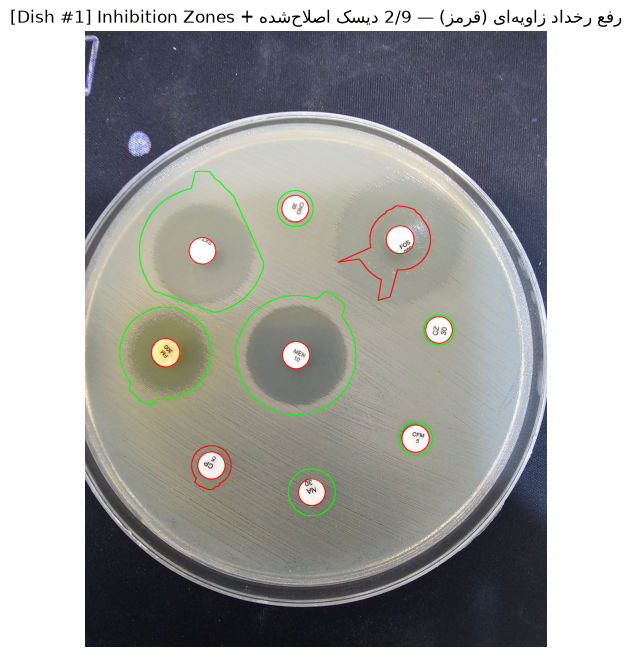
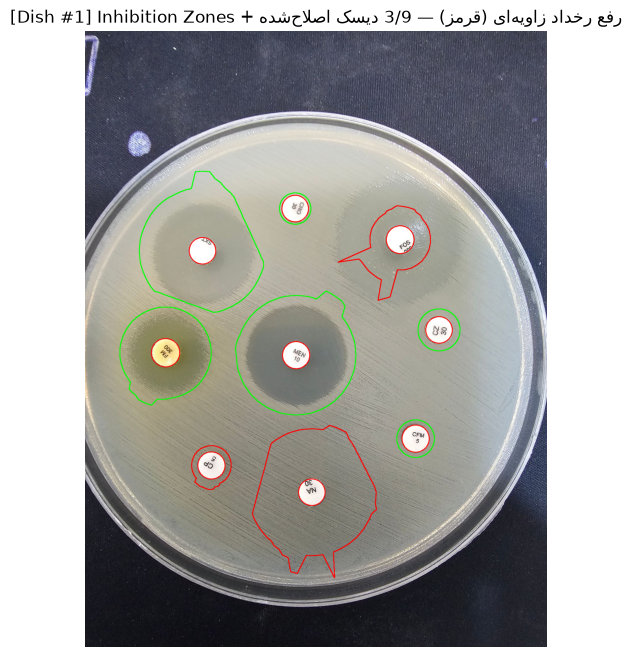
Document combined-fix results: halo MAE 11.12->5.77mm, bias ~eliminated
Full 11-image re-evaluation after both the disk-based px/mm calibration
and the search-window-widening fix: MAE 11.12->5.77mm (-48%), bias
-10.90->-0.60mm (-94%, essentially unbiased now). Disk diameter
accuracy is now near-perfect (MAE 0.17mm) as expected from the
calibration.

Documented honestly alongside the win: the widening fix introduced a
new side effect on 19 of 28 genuinely zone-free disks, which now
report a meaningfully inflated false halo (up to 36.7mm on a 6mm
disk) instead of correctly reporting no growth -- an unrelated trend
(lighting, neighbor bleed) can cross the significance threshold once
the search window is allowed to widen far enough. This doesn't show
up in the halo MAE (computed only over disks with a real GT zone) but
is real remaining work.

Claude-Session: https://claude.ai/code/session_01XqC1qUtyURmn3H3wPm2cMP

diff --git a/PROJECT_HISTORY.md b/PROJECT_HISTORY.md
@@ -825,4 +825,23 @@ overlap(کاذب, واقعی) = 0.0000   ← کاملاً منفصل، نه تو
 
 **صادقانه: این رفع کامل نیست.** روی `gt_07` بعد از رفع، فقط ۲ از ۸ دیسک از گیتِ ماژولِ ۱۶.۵ عبور کردند (contrast_sigma از ۵ دیسکِ دیگر هنوز زیرِ ۱σ ماند، با اینکه Ground Truth برایِ چندتایشان هالههایِ ۲۳-۳۴mm ثبت کرده). یعنی مشکلِ نویزِ پسزمینه فقط بخشی از قصه بود؛ یک عاملِ عمیقترِ دیگر (شاید: تعریفِ contrast_sigma بر پایهی «میانهی رینگهایِ نزدیکِ دیسک در برابرِ پسزمینه» برایِ هالههایِ پهن/کمشیب بهذاتِ خودش کنتراستِ کمی میدهد، نه فقط نویزِ مخرج) هنوز باقی است و نیازمندِ بررسیِ بیشتر است -- در صورتِ درخواستِ کاربر برایِ ادامه.
 
-**وضعیت:** دیتابیس (با `disk_diameter_mm_expert=6` برایِ همهی دیسکها، طبقِ درخواستِ کاربر)، رفعِ باگ، و نسخهی نهاییِ `evaluate_pipeline.py` (شاملِ ذخیرهی overlayِ خروجیِ پایپلاین برایِ مقایسهی بصری با عکسهایِ ماژیکدار، و مقایسهی قطرِ خودِ دیسک) commit/push شدند. راهنمایِ اجرایِ محلی در `ground_truth/README.md` اضافه شد. موارد خواستهشدهی کاربر که هنوز پیادهسازی نشدهاند (نیازمندِ دادهی اضافی از خودِ کاربر): تکرارپذیریِ اندازهگیریِ دستی، طبقهبندیِ S/I/R، و نرخِ موفقیتِ تشخیصِ پتری روی کلِ ۷۸ عکسِ ریپازیتوری.
+### ۱۲.۵) کالیبراسیونِ px→mm از رویِ خودِ دیسک (نه فرضِ قطرِ پتری) + رفعِ دومِ باگِ هاله
+
+**درخواستِ کاربر:** بهجایِ `cfg.dish_reference_diameter_mm=90.0` (فرضِ ثابتِ قطرِ پتری، وابسته به دقتِ تشخیصِ شعاعِ خودِ پتری)، px→mm از رویِ اندازهیِ استانداردِ خودِ دیسکها (۶mm) کالیبره شود: کوچکترین خوشهی قطرِ پیکسلیِ دیسکها (کوچکترین دیسک + هر دیسکِ دیگری که حداکثر ۳۰٪ بزرگتر باشد -- دقیقاً زیرِ نسبتِ واقعیِ ۶/۸mm=۱.۳۳) میانگین گرفته و برابرِ ۶mm گذاشته شود.
+
+**پیادهسازی:** تابعِ جدیدِ `_estimate_px_per_mm_from_disks` جایگزینِ محاسبهی قدیمی شد؛ `cfg.disk_reference_diameter_mm=6.0` و `cfg.disk_calibration_cluster_tolerance=0.30` اضافه، `cfg.dish_reference_diameter_mm` (دیگر بلااستفاده) حذف شد.
+
+**نتیجه:** دقتِ قطرِ خودِ دیسک تقریباً کامل شد (MAE=۰.۱۷mm، Bias≈۰ -- طبقِ ساخت، چون خوشهی کالیبراسیون همین دیسکهاست)، و مهمتر: چون همهی مقادیرِ mm به همین مقیاس گره خوردهاند، بایاسِ قطرِ هاله هم بهبودِ چشمگیر یافت: MAE ۸.۶۰→۸.۰۳mm، **Bias −۷.۰۸→−۳.۸۶mm**.
+
+**رفعِ دومِ (عمیقتر) باگِ کمبرآورد:** بررسیِ پروفایلِ خامِ دیسکهایِ هنوز-گیرافتاده (`gt_07`) نشان داد پروفایلِ شعاعی بهطورِ کامل و یکنواخت در سرتاسرِ کلِ پنجرهی جستوجو در حالِ افزایش بود (بدونِ هیچ فلاتِ واقعی) -- یعنی پنجره هنوز کاملِ گذار را ندیده بود. اما `max_allowed` (سقفِ فیزیکیِ واقعی، فاصله تا لبهی پتری) ۲ تا ۴ برابرِ پنجرهی اولیه بود -- یعنی حلقهی گسترشِ تطبیقیِ ماژولِ ۱۶ جایِ کافی برایِ رشد داشت اما هرگز فعال نمیشد، چون وقتی نویزِ محلی با کلِ بازهی تغییراتِ پروفایل در همان پنجرهی باریک قابلمقایسه باشد، باندِ همگرایی (± نویز×۲) از کلِ آن بازه پهنتر میشود و تقریباً هر رینگی، even نزدیکِ ابتدایِ پنجره، بهاشتباه «همگرا» تشخیص داده میشد -- شرطِ `if crossed or ...: break` بدونِ بررسیِ قابلِاعتماد بودنِ آن همگرایی، حلقه را زودهنگام متوقف میکرد.
+
+**رفع:** همگراییِ زودهنگام فقط وقتی پذیرفته میشود که `contrast_sigma` از قبل بهوضوح معنادار باشد (همان آستانهی ۳σِ ماژولِ ۱۶.۵ -- `cfg.halo_extension_require_min_contrast_sigma`)؛ وگرنه پنجره طبقِ طراحیِ اصلیِ همان حلقه (که تا امروز هرگز عملاً فعال نمیشد) گسترش مییابد.
+
+**نتیجهی اجرایِ کاملِ نهایی (هر سه رفع با هم):**
+- MAE قطرِ هاله: ۱۱.۱۲ → **۵.۷۷mm** (کاهشِ ~۴۸٪)
+- Bias قطرِ هاله: −۱۰.۹۰ → **−۰.۶۰mm** (تقریباً بدونِ سوگیریِ سیستماتیک -- کاهشِ ~۹۴٪)
+- دقتِ قطرِ دیسک: MAE=۰.۱۷mm, Bias≈۰
+
+**صادقانه -- یک عارضهی جانبیِ جدید کشف شد:** بررسیِ ۲۸ دیسکِ «واقعاً بدونِ هاله» نشان داد ۹ تا هنوز بهدرستی مقدارِ کوچک (نسبت به قطرِ دیسک، ۱.۱-۱.۹×) گزارش میدهند، ولی **۱۹ تا** حالا مقدارِ بهطرزِ معناداری بزرگتر گزارش میدهند (نسبتِ ۲× تا ۵.۹×، یعنی تا ۳۶.۷mm برایِ یک دیسکِ ۶mm) -- گسترشِ پنجره که مشکلِ کمبرآوردِ هالههایِ واقعی را حل کرد، گاهی هم به یک روندِ نامرتبط (نورِ ناهموار، نشتِ هالهی همسایه) اجازه میدهد آنقدر دنبال شود که بهاشتباه از آستانهی ۳σ عبور کند. چون این معیارِ «حضور/عدمِ هاله» فقط روی دیسکهایِ *بدونِ* هاله سنجیده میشود (نه روی MAEِ بالا که فقط دیسکهایِ *دارایِ* هاله را حساب میکند)، این عارضه در عددِ MAE/Bias بالا ظاهر نشده اما یک مشکلِ واقعیِ باقیمانده است -- بهبودِ کمبرآورد با هزینهی مقداری بیشبرآوردِ تازه در دیسکهایِ سالم بهدست آمده. رفعِ این مورد (مثلاً نیازِ به یک روندِ پایدار/غیرِتصادفی، نه فقط عبور از ۳σ در یک لحظه) قدمِ منطقیِ بعدی است.
+
+**وضعیت:** هر دو رفع (کالیبراسیونِ دیسکمحور + رفعِ گسترشِ پنجره) commit/push شدند. موارد باقیمانده: عارضهی جانبیِ بیشبرآوردِ تازه (بالا)، تکرارپذیریِ اندازهگیریِ دستی، طبقهبندیِ S/I/R، و نرخِ موفقیتِ تشخیصِ پتری روی کلِ ۷۸ عکسِ ریپازیتوری.
